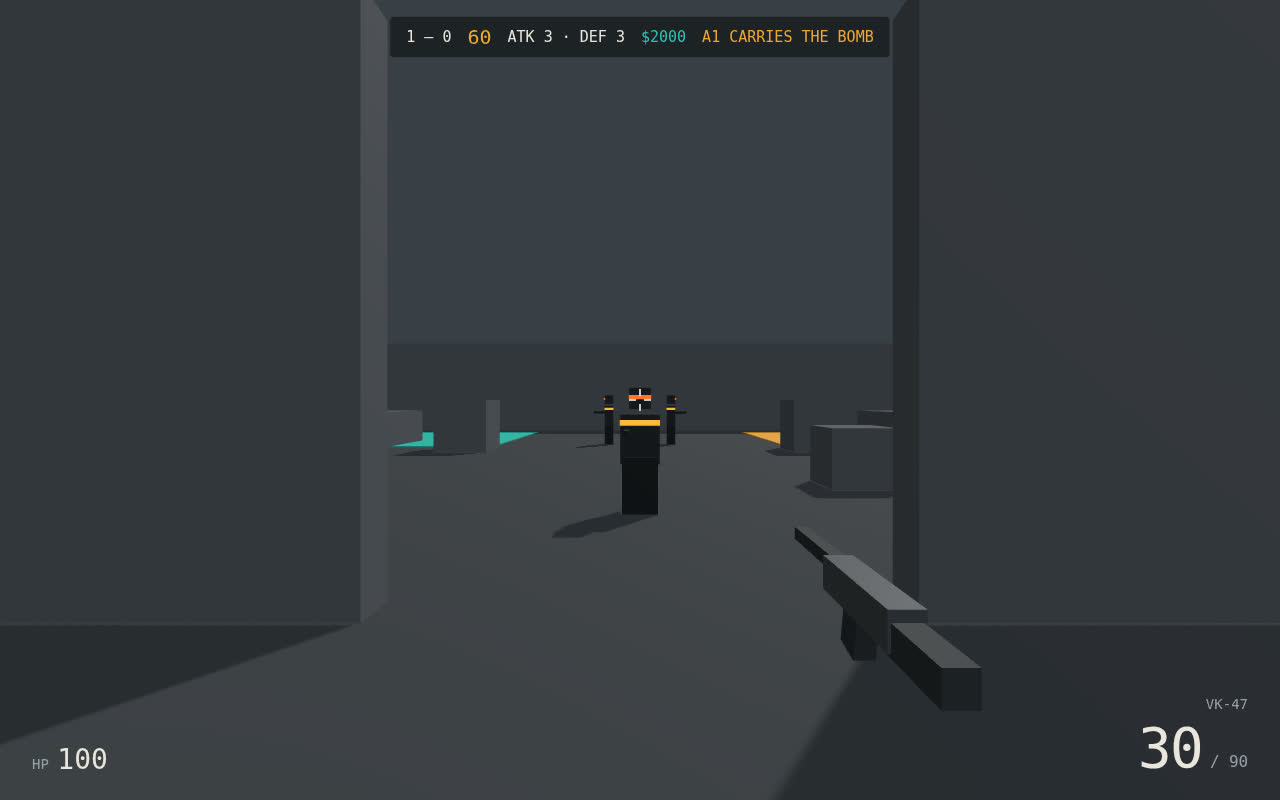
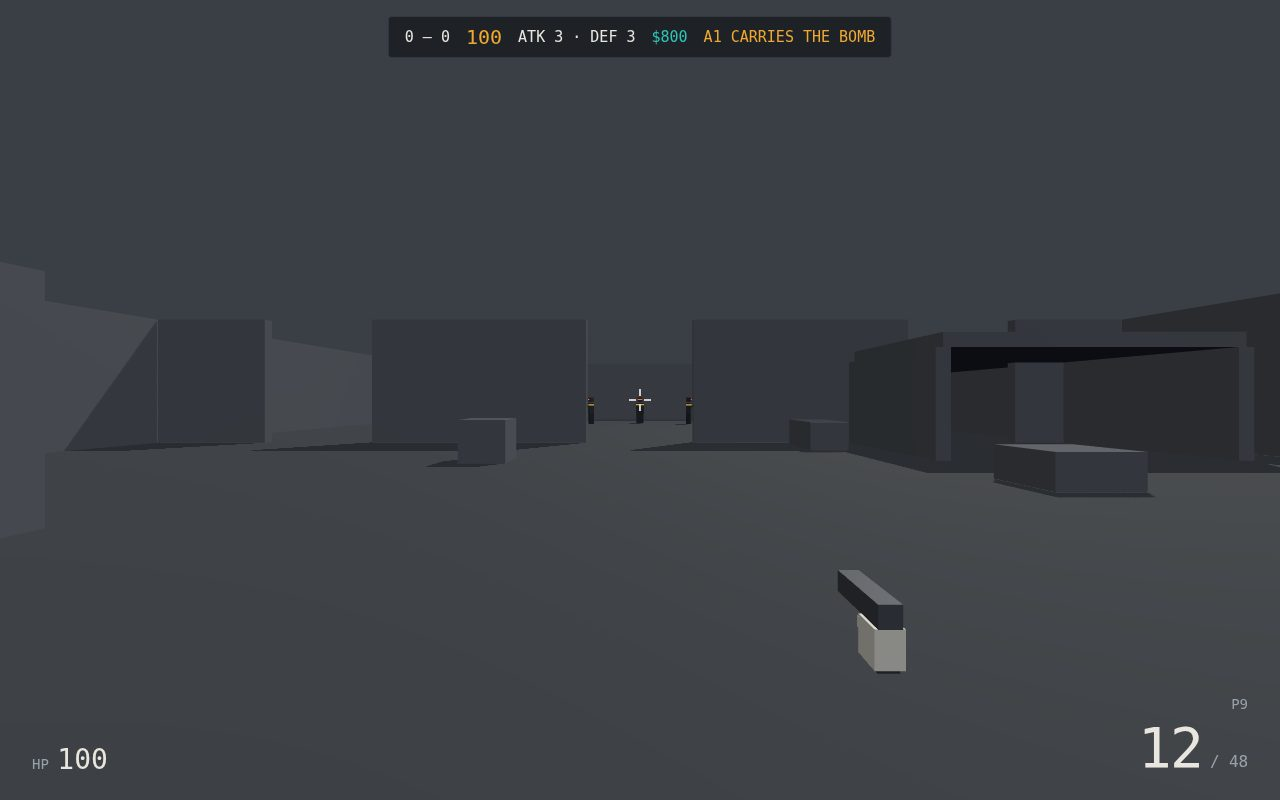
Add gloved first-person hands to P9 and VK-47 viewmodels
Hands are parented to the weapon model, so they follow recoil kick
and the reload dip exactly. Visual only: no combat, input, or
economy code touched. Screenshots 2-play and 3-plant retaken with
hands visible.

diff --git a/game/src/weapons.js b/game/src/weapons.js
@@ -9,12 +9,27 @@ import { WEAPONS } from './config.js';
 function buildViewModel(def) {
   const grip = new THREE.MeshStandardMaterial({ color: new THREE.Color(PALETTE.canvas), roughness: 0.7, metalness: 0.2 });
   const body = new THREE.MeshStandardMaterial({ color: new THREE.Color(PALETTE.hairline), roughness: 0.5, metalness: 0.35 });
+  // Gloved first-person hands (light gloves, PALETTE.ink). Parented to the weapon
+  // model, so they follow it exactly through recoil kick and the reload dip —
+  // visual only, no gameplay, combat, or input code is touched.
+  const glove = new THREE.MeshStandardMaterial({ color: new THREE.Color(PALETTE.ink), roughness: 0.9, metalness: 0.05 });
+  function hand(w, h, d, x, y, z) {
+    const m = new THREE.Mesh(new THREE.BoxGeometry(w, h, d), glove);
+    m.position.set(x, y, z);
+    return m;
+  }
   const model = new THREE.Group();
   if (def.name === 'P9') {
     const slide = new THREE.Mesh(new THREE.BoxGeometry(0.06, 0.06, 0.26), body);
     const handle = new THREE.Mesh(new THREE.BoxGeometry(0.055, 0.12, 0.08), grip);
     handle.position.set(0, -0.08, 0.08);
     model.add(slide, handle);
+    // Right hand wrapped around the pistol grip.
+    model.add(
+      hand(0.075, 0.1, 0.095, 0, -0.08, 0.08),
+      hand(0.07, 0.028, 0.028, 0, -0.055, 0.032),
+      hand(0.02, 0.05, 0.03, 0.042, -0.075, 0.06),
+    );
   } else {
     const receiver = new THREE.Mesh(new THREE.BoxGeometry(0.09, 0.1, 0.42), body);
     const barrel = new THREE.Mesh(new THREE.BoxGeometry(0.045, 0.045, 0.4), grip);
@@ -25,6 +40,13 @@ function buildViewModel(def) {
     mag.position.set(0, -0.1, -0.05);
     mag.rotation.x = 0.2;
     model.add(receiver, barrel, stock, mag);
+    // Right hand on the stock grip, left hand on the foregrip.
+    model.add(
+      hand(0.085, 0.09, 0.1, 0, -0.02, 0.28),
+      hand(0.08, 0.028, 0.028, 0, 0.0, 0.24),
+      hand(0.08, 0.07, 0.09, 0, -0.01, -0.32),
+      hand(0.075, 0.028, 0.028, 0, -0.045, -0.32),
+    );
   }
   model.position.set(0.3, -0.26, -0.7);
   model.scale.setScalar(0.5);
